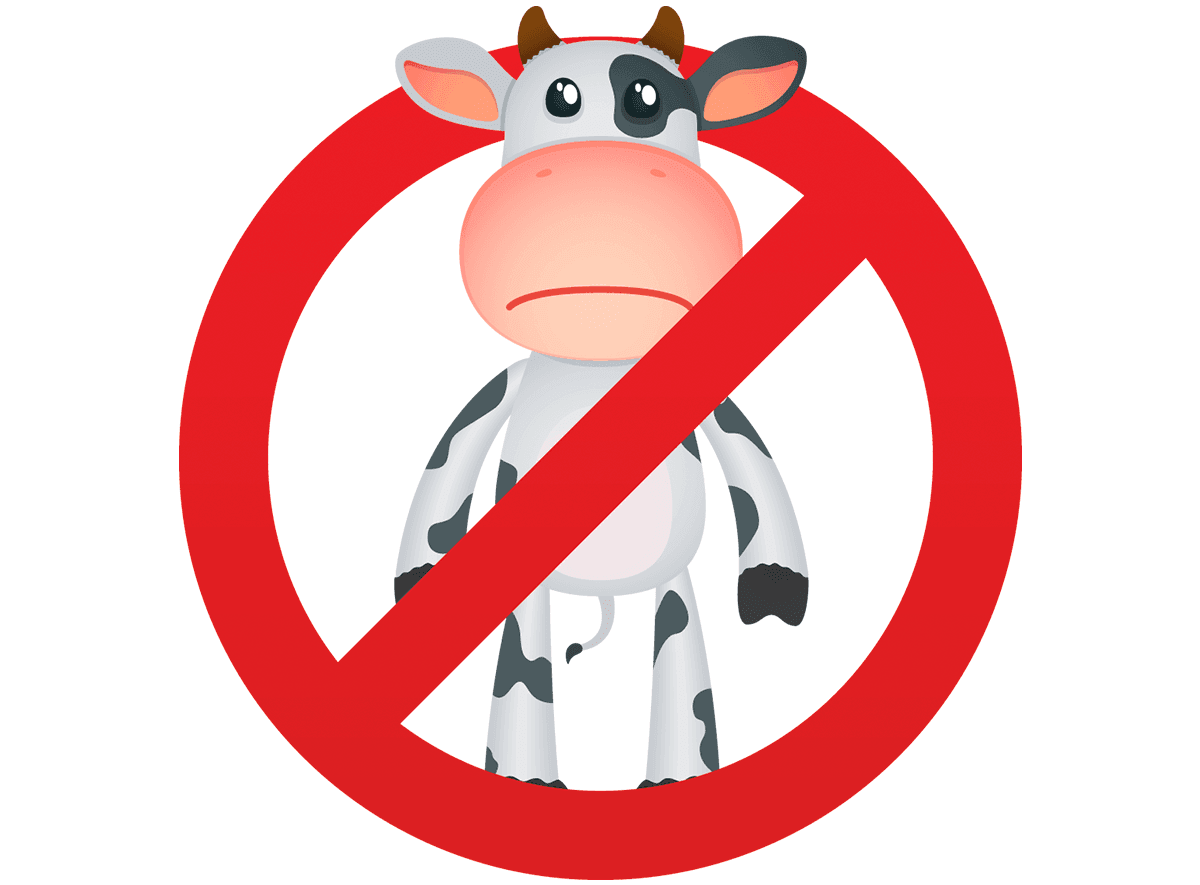
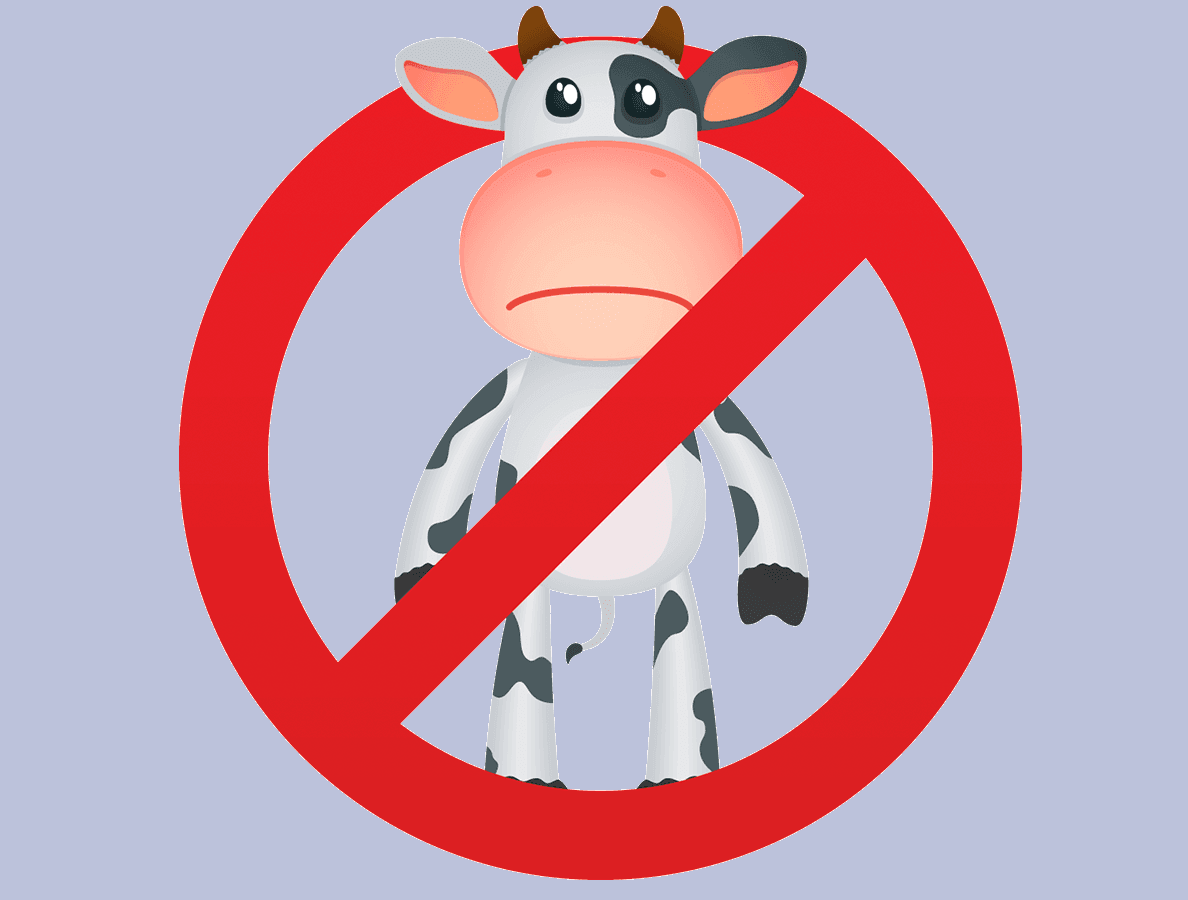
Mudança no frontEnd

diff --git a/templates/index.html b/templates/index.html
@@ -1,27 +1,28 @@
 {% extends 'base.html' %}
 
 {% block content %}
-    <h1> {%block title %} Bem vindo ao Apoio a criança APLV {% endblock %}</h1>
+    <hr> 
+    <h1> {%block title %} Bem vindo ao apoio a criança APLV {% endblock %}</h1>
         <header class = "w3-center w3-display-containe w3-content w3-wide" id = "home">
-
+        <hr>        
         <img class="w3-image" src="../static/img/aler01.png" alt="Alergia do leite de vaca" width="15%">
-
-        <div class="w3-display-bottonleft w3-padding-large w3-pale-blue">
+        <hr>
+        <div class="w3-display-bottonleft w3-padding-large">
             <h3 class="w3-xxlarge">Conheça mais sobre a alergia ao leite de vaca</h3>
         </div>
-    </header>
+        </header>
     <div class="w3-content">
         <div class="w3-row w3-padding-64" id="sobre">
-            <div class="w3-col m6 w3-padding-large w3-show-small">
+            <div class="w3-col m6 w3-padding-large w3-show-large">
                 <img src="../static/img/form.jpg" alt="Formulas APLV" class="w3-round w3-image w3-opacity-min" alt="Table Setting" borde="0">
     </div>
     <div class="w3-col m6 w3-padding-xxxlarge">
-      <h1 class="w3-center w3-pale-blue">Nosso Objetivo</h1>
+      <h1 class="w3-center">Nosso Objetivo</h1>
       <h5 class="w3-center">Ajudar...</h5>
       <p class="w3-large">
           O objetivo deste projeto é realizar um grupo de apoio a famílias de crianças APLV, são famílias que necessitam
-           de muita ajuda, pois além de se encontrarem em situação com muitas dúvidas, a pessoa que sofre normalmente
-           é uma criança deixando os responsáveis ainda mais angustiados.
+           de muita ajuda, pois além de se encontrarem em situação com muitas dúvidas, o indivíduo que sofre com todos os males causados pela alergia
+           é uma criança o que deixa os responsáveis ainda mais angustiados.
          </p>
          <p class="w3-large">
           O foco principal será a realização de um banco de dados com responsáveis de APLV para que através de doações
@@ -34,8 +35,8 @@
          </p>
     </div>
         </div>
-
-    <footer class="w3-right w3-padding-large" id="rodape" style="background-color: #48D1CC">
+        <hr>    
+    <footer class="w3-right w3-padding-large" id="rodape" style="background-color: #5986ad">
       <i style="font-size:36px" class="fa">&#xf09a;</i>
       <i style="font-size:36px" class="fa">&#xf16d;</i>
       <i style="font-size:36px" class="fa">&#xf2ab;</i>

diff --git a/templates/sobre.html b/templates/sobre.html
@@ -1,11 +1,13 @@
 {% extends 'base.html' %}
 
 {% block content %}
+    <hr> 
     <header>
     <h1 id="topo"> {%block title %} Conhecendo mais sobre o assunto {% endblock %}</h1>
     </header>
-    <div class="w3-col m10 w3-padding">
-      <h1 class="w3-center w3-pale-blue">Vamos entender...</h1>
+    <hr> 
+    <div class="w3-padding">
+      <h1 class="w3-center w3-pale">Vamos entender...</h1>
         <br>
       <p class="w3-large">  A alergia à proteína do leite de vaca, conhecida como APLV, é a alergia alimentar mais comum durante a infância: estima-se que 2,2% das crianças são atingidas no primeiro ano de vida.
 Quem é alérgico ao leite de vaca pode apresentar desde sintomas bem leves, como uma urticária na pele, até reações bem graves, como o choque anafilático (reação alérgica súbita que pode ser fatal). Diante da suspeita de APLV, o bebê deve ser levado ao pediatra para que seja feito o diagnóstico correto e, caso confirmado, já se dê início ao tratamento.
@@ -102,7 +104,7 @@ Australian Society of Clinical Immunology and Allergy (“Cow’s milk dairy all
             Food Allergy Research & Education (“Milk Allergy”) )</p>
     </div>
         <hr>
-    <footer class="w3-right w3-padding-large" id="rodape" style="background-color: #48D1CC">
+    <footer class="w3-right w3-padding-large" id="rodape" style="background-color: #5986ad">
       <i style="font-size:36px" class="fa">&#xf09a;</i>
       <i style="font-size:36px" class="fa">&#xf16d;</i>
       <i style="font-size:36px" class="fa">&#xf2ab;</i>

diff --git a/templates/doar.html b/templates/doar.html
@@ -1,8 +1,9 @@
 {% extends 'base.html' %}
 
 {% block content %}
+<hr> 
     <h1> {%block title %} Área de doação: Relação de Cadastrados {% endblock %}</h1>
-<br>
+<hr> 
 <!-- <form method="get">
     <div class="form-group w3-center">
         <label for="bairro">Filtro: Digite o seu Bairro e a Cidade</label><br>
@@ -14,10 +15,9 @@
     </div>
     <div class="form-group w3-center">
         <button type="submit" class="btn btn-primary">Filtar</button>
-    </div>
+    </div> -->
 </form>
--->
-<br>
+
     {% for post in posts %}
         <a href="{{ url_for('post', post_id=post['id'])}}">
             <h5>Nome: {{ post['nome'] }}</h5>

diff --git a/templates/base.html b/templates/base.html
@@ -12,8 +12,13 @@
 
     <title>{% block title %} {% endblock %} </title>
 </head>
+<style>
+  body {
+    background-color: rgb(188, 194, 219);
+  }
+</style>
 <body>
-    <nav class="navbar navbar-expand-md" style="background-color: #48D1CC">
+    <nav class="navbar navbar-expand-md" style="background-color: #5986ad">
   <a class="navbar-brand" href="{{ url_for('index')}}">Apoio ao APLV</a>
   <button class="navbar-toggler" type="button" data-toggle="collapse" data-target="#navbarNav" aria-controls="navbarNav" aria-expanded="false" aria-label="Alterna navegação">
     <span class="navbar-toggler-icon"></span>

diff --git a/templates/cadastrar.html b/templates/cadastrar.html
@@ -1,7 +1,9 @@
 {% extends 'base.html' %}
 
 {% block content %}
+<hr> 
 <h1>{% block title %} Cadastro{% endblock %}</h1>
+<hr> 
 <p class="w3-large">Área para o responsável de APLV que deseja se cadastrar, preencha todos os campos para a inclusão no banco de dados como receptor.</p>
 
 <form method="post">
@@ -29,5 +31,6 @@
     <div class="form-group">
         <button type="submit" class="btn btn-primary">Cadastrar</button>
     </div>
+    <hr> 
 </form>
 {% endblock %}

diff --git a/templates/filtro.html b/templates/filtro.html
@@ -1,0 +1,8 @@
+{% extends 'base.html' %}
+
+{% block content %}
+<br>
+<p class="w3-large">Para fazer o contato com o responsável de Aplv que irá receber, clique no e-mail.</p>
+    <h2>{% block title %} {{ filtro['nome'] }} {% endblock %}</h2>
+    <p><a href="mailto:{{ post['email'] }}"> {{ filtro['email'] }} </a></p>
+{% endblock %}

diff --git a/app.py b/app.py
@@ -69,8 +69,4 @@ def cadastrar():
 def doar():
     posts = Posts.query.all()
     return render_template('doar.html', posts=posts)
-def filtro():
-    if request.method == 'GET':
-       db.query.filter(db.bairro.endswith('@example.com')).all()
-       return render_template('filtro.html', posts=posts)
 
